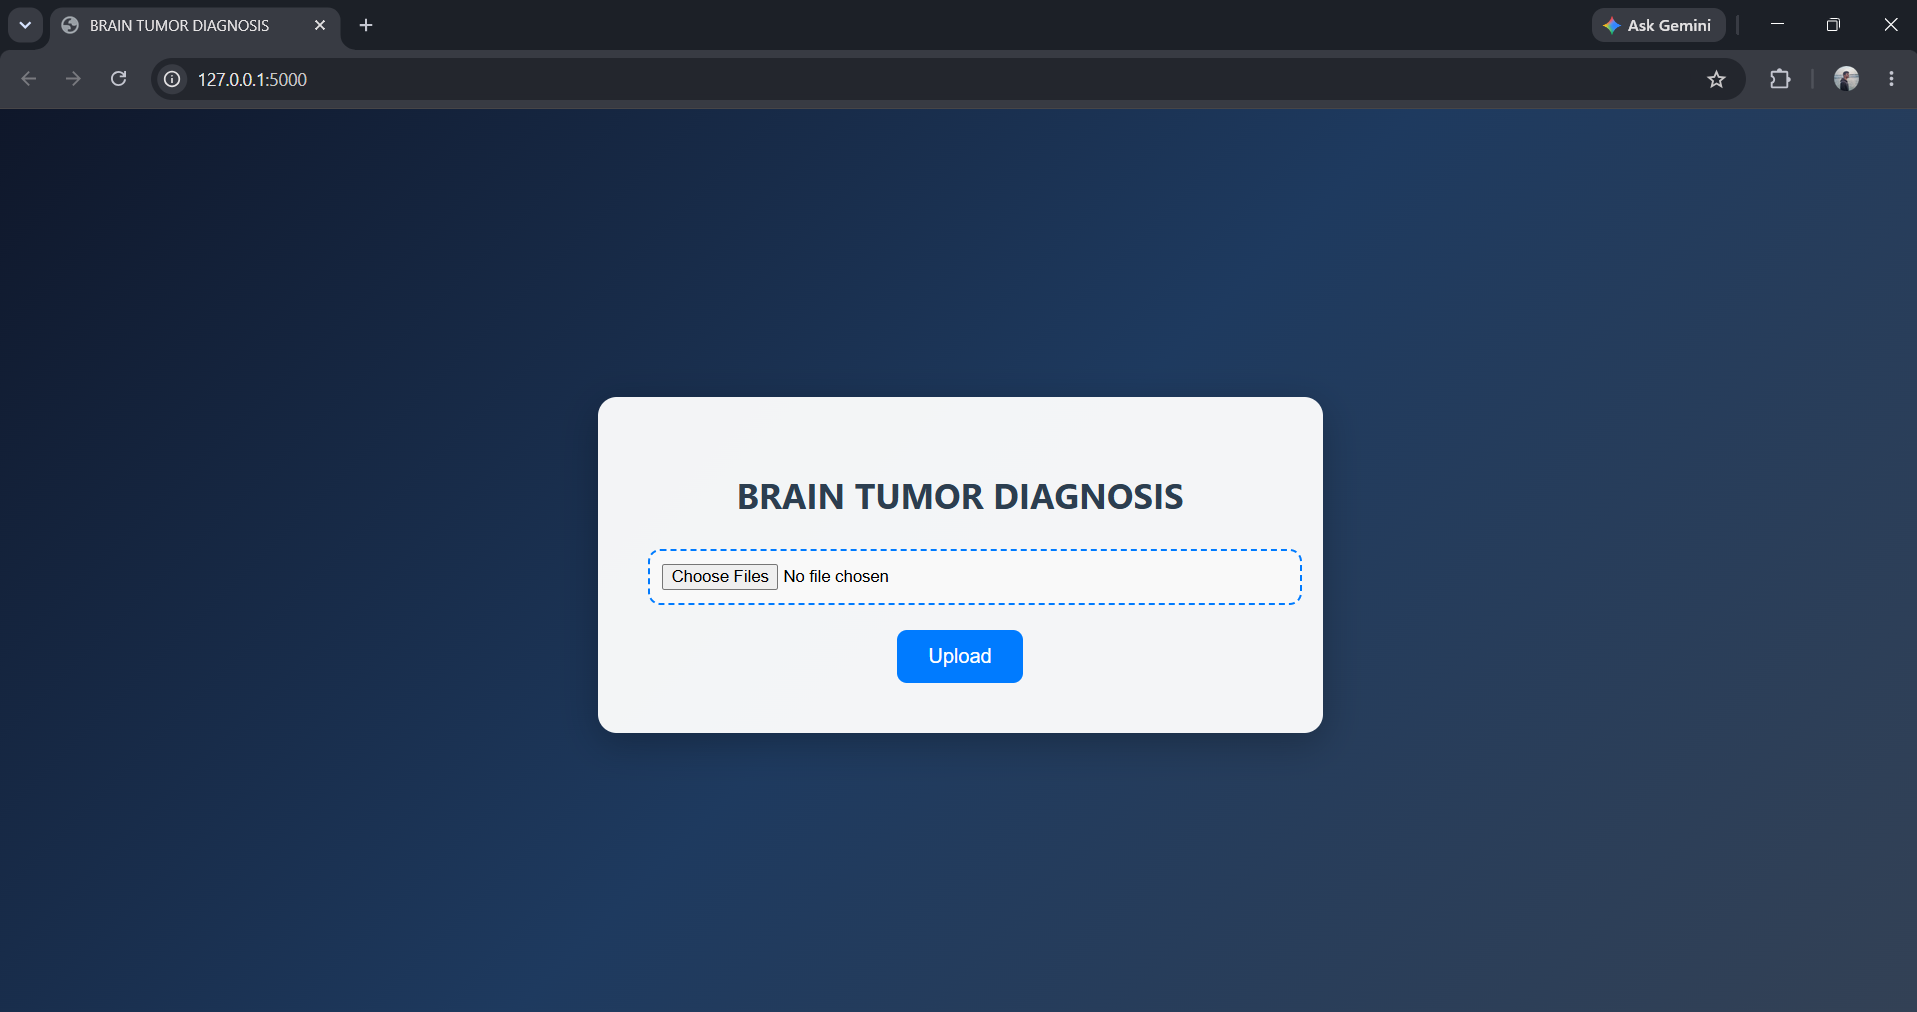
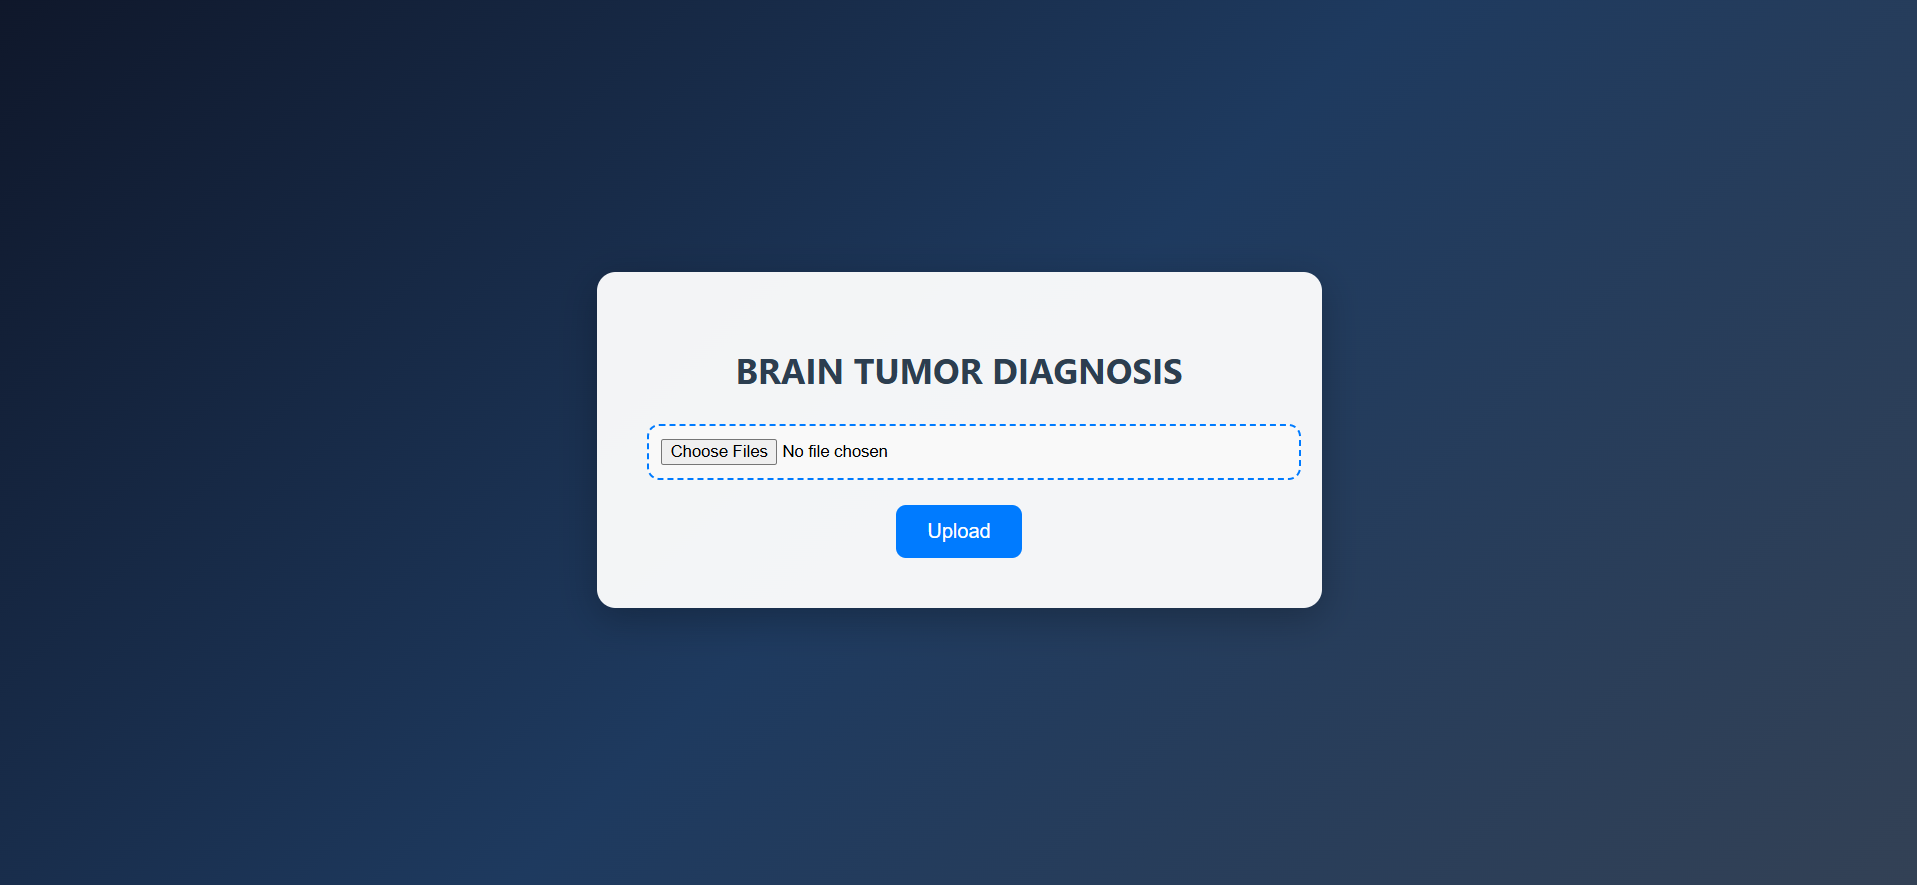
Update project README and screenshots

Changed region(s): [[0.3078, 0.3051, 0.7079, 0.7322], [0.0, 0.0, 1.0, 0.122], [0.6463, 0.5186, 0.6771, 0.5492]]

diff --git a/README.md b/README.md
@@ -1,123 +1,192 @@
-# 3D CNN Brain Tumor Detection
 
-A Python project that explores brain MRI analysis using a 3D Convolutional Neural Network (3D CNN). It combines MRI file validation, interactive 3D visualization, and experimental model inference in a Flask web application.
+# Brain Tumor Detection Using 3D CNN
+
+An academic project developed in **April 2025** to explore brain MRI processing, 3D visualization, and experimental brain tumor detection using Python and a 3D Convolutional Neural Network (3D CNN).
+
+The project combines medical image validation, interactive 3D visualization, and experimental model inference in a local Flask web application.
 
 ## About the Project
 
-Brain MRI scans contain information across multiple image slices. Viewing and processing these scans requires tools that can read medical image files, prepare the data, and display it in a useful way.
+Brain MRI scans contain information across multiple image slices. Working with these scans requires tools to read medical image files, prepare the data, and visualize the images.
 
-I built this project to explore how Python, deep learning, and 3D visualization can work together in a single application. It brings several steps of the MRI analysis workflow into one place.
+This project brings several of these tasks together in one web application. Users can upload MRI-related NIfTI files, validate the inputs, explore an interactive 3D visualization, and view experimental model output when a compatible trained model is available.
 
-This is an educational and research project, not a clinically validated diagnostic system.
+The project demonstrates the integration of Python, deep learning, medical image processing, and web application development in an academic prototype.
 
 ## The Problem
 
-Working with 3D MRI data can involve several separate steps, including checking files, preparing image data, running a model, and viewing the results. These steps can be difficult to manage when using different tools.
+Working with 3D MRI data involves several steps, including:
+
+- Checking whether the required medical image files are available.
+- Reading and preparing volumetric MRI data.
+- Exploring brain images through visualization.
+- Running a compatible deep learning model.
+- Presenting the results through a usable interface.
+
+Managing these tasks across separate tools can make the workflow harder to follow.
 
 ## The Solution
 
-This project provides a web application where users can upload MRI files, check their validity, view an interactive 3D visualization, and examine experimental CNN output when a compatible trained model is available.
+The application provides a Flask-based interface for uploading MRI-related files, validating the inputs, viewing interactive 3D visualizations, and examining experimental 3D CNN output.
 
-The aim is to make the workflow easier to explore and understand through a simple web interface.
+It brings image-processing utilities and a deep learning inference workflow into one local application.
+
+The application is an educational prototype. Its output has not been clinically validated and must not be treated as a medical diagnosis.
 
 ## Key Features
 
-- **MRI file validation:** Checks the required files and their image data before processing.
-- **3D CNN inference:** Runs an experimental deep-learning model when a compatible model file is available.
-- **Interactive 3D visualization:** Displays MRI data and the supplied segmentation mask.
-- **Segmentation measurements:** Calculates voxel counts and an approximate volume from the supplied mask and voxel spacing.
-- **Web interface:** Brings file upload, visualization, and report viewing together in one application.
-- **Report options:** Provides options to download a PDF report, print the report, or analyze another scan.
-
-The model output and mask-based measurements have not been clinically validated.
+- **MRI file validation:** Checks the required input files before processing.
+- **Multiple MRI inputs:** Supports T1, T1ce, T2, FLAIR, and segmentation-mask files.
+- **3D visualization:** Provides interactive visualization of MRI data.
+- **Experimental 3D CNN inference:** Supports model inference when a compatible trained model is available.
+- **Input preparation:** Prepares MRI data for the expected model input format.
+- **Segmentation measurements:** Displays measurements derived from the supplied segmentation mask.
+- **Web interface:** Brings file upload, visualization, and results presentation together in one application.
 
 ## How It Works
 
-1. **Upload:** Select the folder containing the five required NIfTI files for the same patient.
-2. **Validate:** The application checks the expected filenames and validates the image data.
-3. **Prepare the MRI:** The T1 volume is normalized, 64 slices are sampled, and each slice is resized to 128 × 128 pixels.
-4. **Run the model:** The prepared volume is passed to the trained CNN when a compatible model is available.
-5. **View the visualization:** The application creates an interactive 3D view using the supplied MRI data and segmentation mask.
-6. **Review the report:** The results page displays the experimental model output and measurements calculated from the supplied mask.
+1. **Upload the files:** Select the five required NIfTI files associated with the same patient.
+2. **Validate the inputs:** The application checks the required files and their suitability for processing.
+3. **Prepare the MRI data:** The T1 image is normalized, 64 slices are sampled, and the slices are resized to 128 × 128 pixels.
+4. **Visualize the data:** The application provides an interactive 3D visualization.
+5. **Run experimental inference:** When a compatible trained model is available, the prepared input can be passed to the model.
+6. **Review the results:** The interface presents experimental model output and measurements calculated from the supplied segmentation mask.
 
-The model output is not a calibrated probability or a medical diagnosis. The supplied segmentation mask is not a segmentation generated by the CNN.
+The supplied segmentation mask is not generated by the CNN. The model's output score is experimental and must not be interpreted as a calibrated probability of disease.
 
-## Technology Stack
+## Screenshots
 
-| Technology | How it is used |
-|---|---|
-| Python | Main programming language |
-| TensorFlow | Loads and runs the CNN model |
-| Flask | Runs the web application and handles uploads |
-| NumPy | Performs numerical operations on image data |
-| NiBabel | Reads NIfTI medical image files |
-| Plotly | Creates interactive 3D visualizations |
-| scikit-learn | Supports machine-learning experiments |
-| OpenCV | Supports image resizing in experimental prediction code |
-| HTML and CSS | Build and style the web interface |
-
-## Required Input Files
-
-The application expects five NIfTI files for the same patient:
-
-- `<patient>_t1.nii.gz`
-- `<patient>_t1ce.nii.gz`
-- `<patient>_t2.nii.gz`
-- `<patient>_flair.nii.gz`
-- `<patient>_seg.nii.gz`
-
-The combined upload limit is 200 MB.
-
-Use files that you are authorized to access. Do not publish identifiable patient information, private scans, or medical datasets without the necessary permission.
-
-## Application Preview
-
-### Home Page
+### 1. Application Home Page
 
 ![Brain Tumor Detection application home page](screenshots/home-page.png)
 
-### 3D MRI Visualization and Analysis Report
+The home page provides the starting point for the MRI upload workflow.
 
-![Brain MRI visualization and experimental analysis report](screenshots/results-report.png)
+### 2. 3D MRI Visualization
+
+![Interactive 3D brain MRI visualization](screenshots/mri-visualization.png)
+
+The interactive visualization displays MRI data and the supplied segmentation mask.
+
+### 3. Analysis Report
+
+![Brain MRI analysis report](screenshots/results-report.png)
+
+The report displays experimental model output and measurements derived from the supplied segmentation mask. The displayed model score is not a validated medical prediction.
+
+## Technology Stack
+
+| Technology | Purpose |
+|---|---|
+| Python | Main programming language |
+| TensorFlow | Deep learning model inference |
+| Flask | Local web application and routing |
+| NumPy | Numerical operations and image-data preparation |
+| NiBabel | Reading NIfTI medical imaging files |
+| Plotly | Interactive visualization |
+| OpenCV | Image-processing utilities |
+| scikit-learn | Supporting machine learning utilities |
+| HTML and CSS | Web interface structure and styling |
+| Werkzeug | Flask-related request and file-handling utilities |
+
+These technologies reflect the project's dependencies and implementation. Not every dependency participates in every processing step.
+
+## Project Structure
+
+```text
+brain-tumor-detection-system/
+├── app.py
+├── requirements.txt
+├── README.md
+├── LICENSE
+├── models/
+│   └── README.md
+├── screenshots/
+│   ├── home-page.png
+│   ├── mri-visualization.png
+│   └── results-report.png
+├── src/
+│   ├── brain_3d_visualization.py
+│   ├── brain_tumor_training_experiment.py
+│   ├── mri_3d_visualization.py
+│   ├── mri_input_validation.py
+│   ├── multiclass_segmentation_experiment.py
+│   ├── train_3d_cnn.py
+│   ├── tumor_analysis_experiment.py
+│   ├── tumor_prediction.py
+│   └── tumor_prediction_candidate.py
+└── templates/
+    ├── index.html
+    └── output.html
+```
+
+The `src/` directory contains image-processing, visualization, training, and prediction-related modules. The `templates/` directory contains the HTML templates used by Flask. The `models/` directory documents the trained model requirements.
+
+## Required Input Files
+
+The application expects five NIfTI files associated with the same patient:
+
+| File suffix | Purpose |
+|---|---|
+| `_t1.nii.gz` | T1-weighted MRI |
+| `_t1ce.nii.gz` | T1 contrast-enhanced MRI |
+| `_t2.nii.gz` | T2-weighted MRI |
+| `_flair.nii.gz` | FLAIR MRI |
+| `_seg.nii.gz` | Segmentation mask |
+
+The combined upload limit is **200 MB**.
+
+Use only data authorized for processing. Do not publish identifiable patient information, private scans, or medical datasets without the necessary permission.
 
 ## Getting Started
 
-### Requirements
+### Prerequisites
 
-Before running the application, you need:
-
-- Python installed on your computer.
+- Python compatible with the project's declared dependencies.
+- Git, if cloning the repository.
 - The dependencies listed in `requirements.txt`.
-- A compatible trained CNN model for inference.
-- Authorized MRI test files in the required NIfTI format.
+- Suitable NIfTI input files for testing the workflow.
+- A compatible trained CNN model if model inference is required.
 
-The trained model and medical datasets are not included in this repository.
+The trained model and medical datasets are not included in the public repository.
 
-### 1. Open the Project
+### 1. Clone the Repository
 
-Open PowerShell in the project directory.
+```bash
+git clone https://github.com/abdulfadhil/brain-tumor-detection-system.git
+cd brain-tumor-detection-system
+```
 
 ### 2. Create a Virtual Environment
 
-Run these commands:
+On Windows, run:
 
 ```powershell
 python -m venv .venv
 .\.venv\Scripts\python.exe -m pip install --upgrade pip
+```
+
+### 3. Install Dependencies
+
+```powershell
 .\.venv\Scripts\python.exe -m pip install -r requirements.txt
 ```
 
-### 3. Add the Trained Model
+Use a Python version compatible with the declared dependencies. If installation fails, check Python and package compatibility before changing dependency versions.
+
+### 4. Configure the Trained Model
 
 The application expects the trained model at:
 
-`models/brain_tumor_cnn.h5`
+```text
+models/brain_tumor_cnn.h5
+```
 
-The model is excluded from the repository because of its size. Obtain the correct model separately and place it at the expected path before running inference.
+The model is excluded from the repository because of its size. A compatible model must be obtained separately and placed at the expected path before running inference.
 
-A different model may not work with the application's input shape or preprocessing steps.
+A different model may not work with the application's expected input shape or preprocessing steps. Refer to `models/README.md` for further information.
 
-### 4. Start the Application
+### 5. Start the Application
 
 Run:
 
@@ -125,40 +194,44 @@ Run:
 .\.venv\Scripts\python.exe app.py
 ```
 
-Open the following address in your browser:
+Open the following address in a browser:
 
-[http://127.0.0.1:5000](http://127.0.0.1:5000)
+http://127.0.0.1:5000
 
-The application runs locally on your computer. This address is not a public website.
+The application runs locally on the computer. This address is not a publicly hosted website.
 
-### 5. Try the Application
+### 6. Use the Application
 
-Select the folder containing the five required NIfTI files for one patient, then follow the upload workflow.
+1. Open the application in the browser.
+2. Select the five required NIfTI files for the same patient.
+3. Follow the upload and validation workflow.
+4. Review the available 3D visualization and experimental output.
 
-Only use data you are authorized to process. Do not use real patient scans simply to create a demonstration.
+Only use data authorized for processing. Successful upload or model execution does not establish diagnostic accuracy.
 
 ## Testing and Results
 
-The following checks have been completed in the local development environment:
+Basic software checks performed during development include Python syntax compilation and importing the Flask application. The application registered the following routes:
 
-- Python source files compile successfully.
-- The Flask application imports, and its basic routes respond as expected.
-- The saved model loads with an input shape of `(None, 64, 128, 128, 1)` and an output shape of `(None, 1)`.
-- A synthetic MRI volume passes the candidate preprocessing test.
-- Inference completes on a synthetic test volume.
+- `/`
+- `/upload`
+- `/static/<path:filename>`
 
-These checks confirm basic software behavior. They do not establish diagnostic accuracy or performance on real patient data. Results from synthetic inputs must not be interpreted as validated tumor predictions.
+These checks confirm basic application structure and import behavior. They do not establish that the trained model reliably detects tumors in real clinical scans.
+
+Model-loading, synthetic-inference, and diagnostic-performance claims should be included only when supported by reproducible test results. No clinical performance claim is made by this project.
 
 ## Current Limitations
 
-- The trained model and medical datasets are not included.
+- The trained model and medical datasets are not included in the public repository.
 - Inference requires a compatible model at `models/brain_tumor_cnn.h5`.
-- The original training pipeline and its equivalence to the current inference preprocessing have not been fully established.
-- The model output is experimental and is not a calibrated or clinically validated probability.
-- An intensity-based threshold is not a validated tumor segmentation.
-- Measurements depend on the supplied segmentation mask and should not be treated as clinical measurements.
+- The model's training pipeline and its consistency with inference preprocessing require further verification.
+- The model output is experimental and is not a calibrated probability.
+- The supplied segmentation mask is used for related measurements; the CNN does not generate that mask.
+- Measurements derived from the mask are not validated clinical measurements.
 - Successful installation or inference does not establish diagnostic accuracy.
-- The application has not been validated for clinical use.
+- The application has not been clinically validated.
+- The application runs locally and is not publicly hosted by default.
 
 ## Future Improvements
 
@@ -166,19 +239,16 @@ These checks confirm basic software behavior. They do not establish diagnostic a
 - Verify consistency between training and inference preprocessing.
 - Add reproducible tests using authorized sample data.
 - Improve input validation and error messages.
-- Record a short demonstration of the application.
-- Review third-party licenses and attributions before distributing additional demo assets.
+- Document the model architecture, training data, and preprocessing in greater detail.
+- Improve the visualization and user interface.
+- Review third-party licenses and attributions before distributing additional demonstration assets.
 
-## Who Is This Project For?
-
-This project is intended for students, developers, and researchers interested in Python, medical image processing, deep learning, and interactive visualization.
-
-It provides a practical way to explore how these technologies can be combined in a research prototype.
+These are potential improvements, not claims that the features have already been implemented.
 
 ## License
 
-This project is licensed under the MIT License. See [LICENSE](LICENSE) for details.
+This project is distributed under the MIT License. See the [LICENSE](LICENSE) file for details.
 
-## Disclaimer
+## Medical Disclaimer
 
-This project is for educational and research purposes only. It is not a medical device and must not be used to diagnose, treat, or make medical decisions about any condition. Always consult qualified healthcare professionals for medical advice.
+This project is provided for educational and research purposes only. It is not a medical device and has not been clinically validated. Its output must not be used to diagnose a condition, guide treatment, or replace advice from qualified healthcare professionals.
